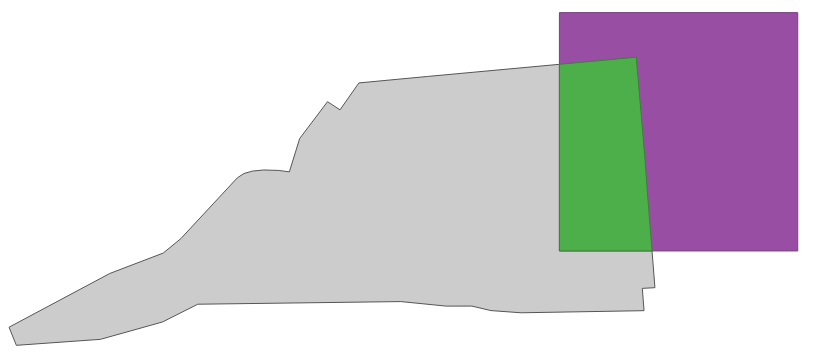
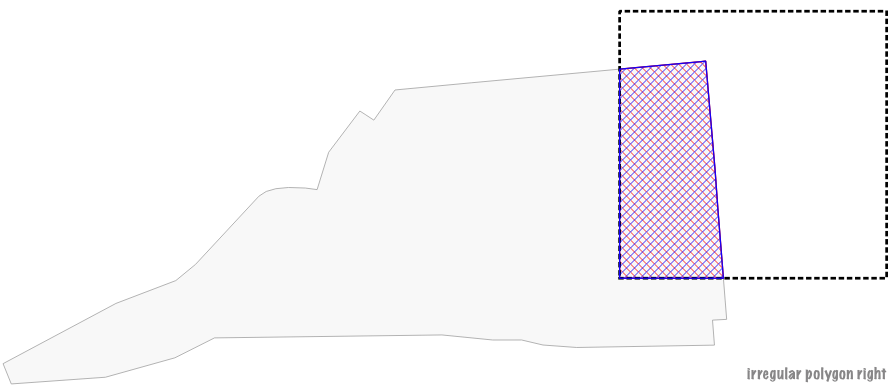
Updated Testcases.md documentation with latest results.

diff --git a/planar/makevalid/testcases.md b/planar/makevalid/testcases.md
@@ -2,14 +2,16 @@
 
 ![Legend and Symbols](_images/legend.png)
 
-id |testcase | status | image
----|---|---|---
-0 | Triangle | |
-1 | Four Square IO_OI | |
-2 | Four columns invalid multipolygon| |
-3 | Square | |
-4 | circle one gdey | `FAIL` | ![Issues with makevalid](_images/tc_0.png)
-5 | circle one | `failure locating` |![5](_images/circle_one.png)
-6 | circle one right | `failure locating` |![6](_images/circle_one.png)
-7 | irregular polygon middle| `FAIL` |![7](_images/irregular_polygon.png)
-8 | irregular polygon right | `runtime error` | ![8](_images/irregular_polygon_right.png)
+MakeValid tests:
+
+ id |             testcase             |         status             |              image
+----|----------------------------------|----------------------------|------------------------------------------
+0   | Triangle                         |  `PASS`                          | ![0](_images/triangle.png)
+1   | Four Square IO_OI                |  `PASS`                          | ![1](_images/four_square_io.png)
+2   | Four columns invalid multipolygon|   `PASS`                         | ![2](_images/four_column_invalid_multipolygon.png)
+3   | Square                           | `PASS`                           | ![3](_images/square.png)
+5   | circle one                       | `PASS`                     | ![5](_images/circle_one.png)
+6   | circle one right                 | `FAIL:image good/test bad` | ![6](_images/circle_one_right.png)
+7   | irregular polygon middle         | `FAIL:imgage good/Triangulation bad`                     | ![7](_images/irregular_polygon_middle.png) ![7](_images/irregular_polygon_middle_bad_triangulation.png)
+8   | irregular polygon right          | `FAIL:image good/test bad`       | ![8](_images/irregular_polygon_right.png)
+
